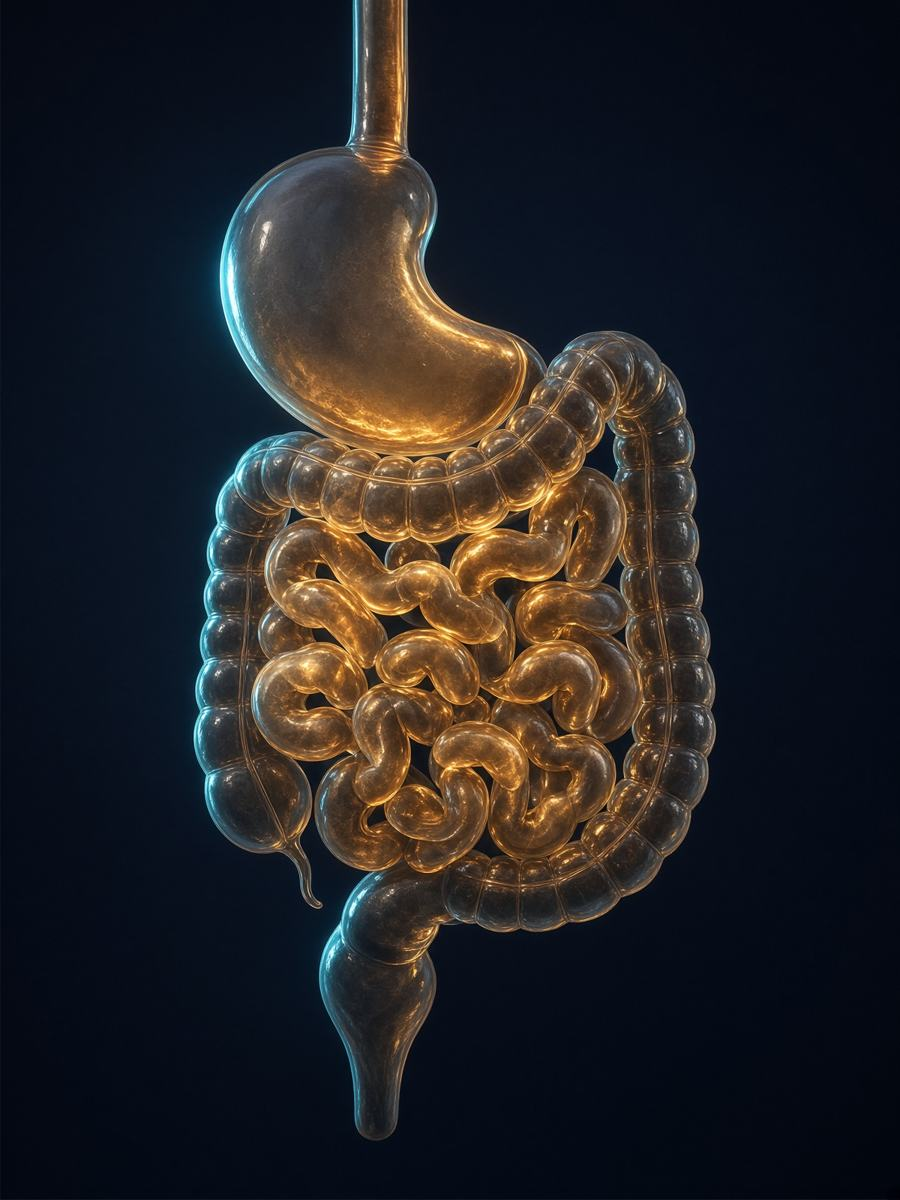
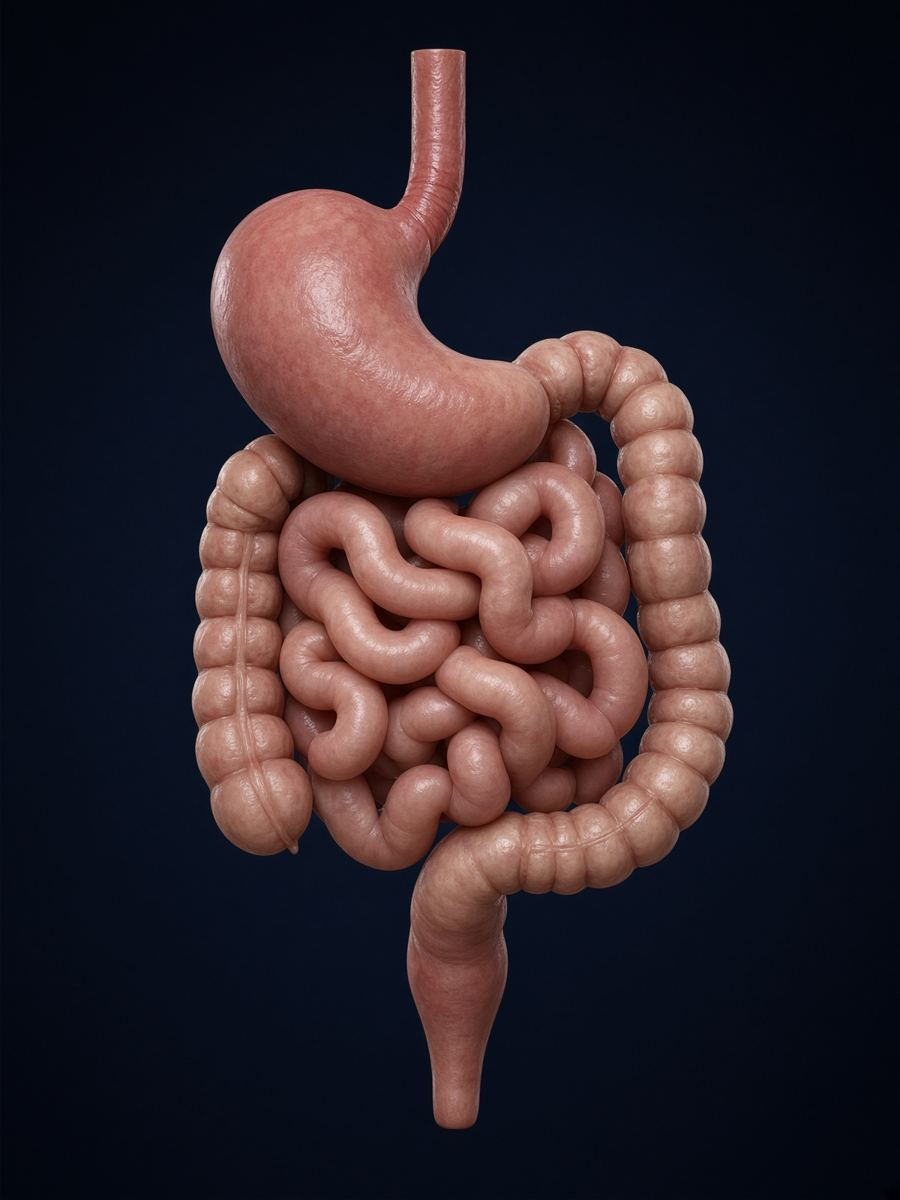
Turn only the body, restore organ selection, and use realistic organ views.

diff --git a/hub.html b/hub.html
@@ -193,8 +193,8 @@ body.searching .results{display:block}
 <main class="atlas">
   <div class="well">
     <div class="figure" id="figure">
-      <img class="face" src="anatomy-body.jpg" alt="Translucent anatomical model. Turn it, then select an organ.">
-      <img class="back" src="anatomy-body.jpg" alt="" aria-hidden="true">
+      <img class="face" src="anatomy-body.png" alt="Translucent anatomical model. Turn it, then select an organ.">
+      <img class="back" src="anatomy-body.png" alt="" aria-hidden="true">
       <div class="scan" aria-hidden="true"></div>
     </div>
     <div class="halo" aria-hidden="true"></div>
@@ -584,9 +584,9 @@ function search(){
   }).join("") || '<p class="empty">No simulator matches that.</p>';
 }
 figure.addEventListener("click", function(event){
-  if(catchTap || dragged || spinning || current) return;
-  const facing = ((angle % 360) + 360) % 360;
-  if(facing > 75 && facing < 285) return;
+  if(spinning || current) return;
+  if(catchTap){ catchTap = false; return; }
+  if(dragged){ dragged = false; return; }
   const btn = event.target.closest(".hot");
   if(!btn) return;
   const id = btn.getAttribute("data-id");
@@ -609,6 +609,7 @@ window.addEventListener("pointermove", function(event){
 });
 window.addEventListener("pointerup", function(){
   drag = null;
+  setTimeout(function(){ catchTap = false; dragged = false; }, 320);
 });
 find.addEventListener("input", search);
 let audioCtx = null;
@@ -828,13 +829,7 @@ function drawDust(){
   });
   requestAnimationFrame(drawDust);
 }
-document.querySelector(".atlas").addEventListener("pointermove", function(event){
-  if(reduced || drag!=null || current) return;
-  const box = event.currentTarget.getBoundingClientRect();
-  const x = (event.clientX-box.left)/box.width-0.5;
-  const y = (event.clientY-box.top)/box.height-0.5;
-  document.querySelector(".well").style.transform = "rotateY("+(x*7)+"deg) rotateX("+(-y*4)+"deg)";
-});
+document.querySelector(".atlas").addEventListener("pointermove", function(){});
 paint();
 figure.addEventListener("pointerover", function(event){
   if(event.pointerType==="touch" || current) return;

diff --git a/index.html b/index.html
@@ -193,8 +193,8 @@ body.searching .results{display:block}
 <main class="atlas">
   <div class="well">
     <div class="figure" id="figure">
-      <img class="face" src="anatomy-body.jpg" alt="Translucent anatomical model. Turn it, then select an organ.">
-      <img class="back" src="anatomy-body.jpg" alt="" aria-hidden="true">
+      <img class="face" src="anatomy-body.png" alt="Translucent anatomical model. Turn it, then select an organ.">
+      <img class="back" src="anatomy-body.png" alt="" aria-hidden="true">
       <div class="scan" aria-hidden="true"></div>
     </div>
     <div class="halo" aria-hidden="true"></div>
@@ -584,9 +584,9 @@ function search(){
   }).join("") || '<p class="empty">No simulator matches that.</p>';
 }
 figure.addEventListener("click", function(event){
-  if(catchTap || dragged || spinning || current) return;
-  const facing = ((angle % 360) + 360) % 360;
-  if(facing > 75 && facing < 285) return;
+  if(spinning || current) return;
+  if(catchTap){ catchTap = false; return; }
+  if(dragged){ dragged = false; return; }
   const btn = event.target.closest(".hot");
   if(!btn) return;
   const id = btn.getAttribute("data-id");
@@ -609,6 +609,7 @@ window.addEventListener("pointermove", function(event){
 });
 window.addEventListener("pointerup", function(){
   drag = null;
+  setTimeout(function(){ catchTap = false; dragged = false; }, 320);
 });
 find.addEventListener("input", search);
 let audioCtx = null;
@@ -828,13 +829,7 @@ function drawDust(){
   });
   requestAnimationFrame(drawDust);
 }
-document.querySelector(".atlas").addEventListener("pointermove", function(event){
-  if(reduced || drag!=null || current) return;
-  const box = event.currentTarget.getBoundingClientRect();
-  const x = (event.clientX-box.left)/box.width-0.5;
-  const y = (event.clientY-box.top)/box.height-0.5;
-  document.querySelector(".well").style.transform = "rotateY("+(x*7)+"deg) rotateX("+(-y*4)+"deg)";
-});
+document.querySelector(".atlas").addEventListener("pointermove", function(){});
 paint();
 figure.addEventListener("pointerover", function(event){
   if(event.pointerType==="touch" || current) return;
